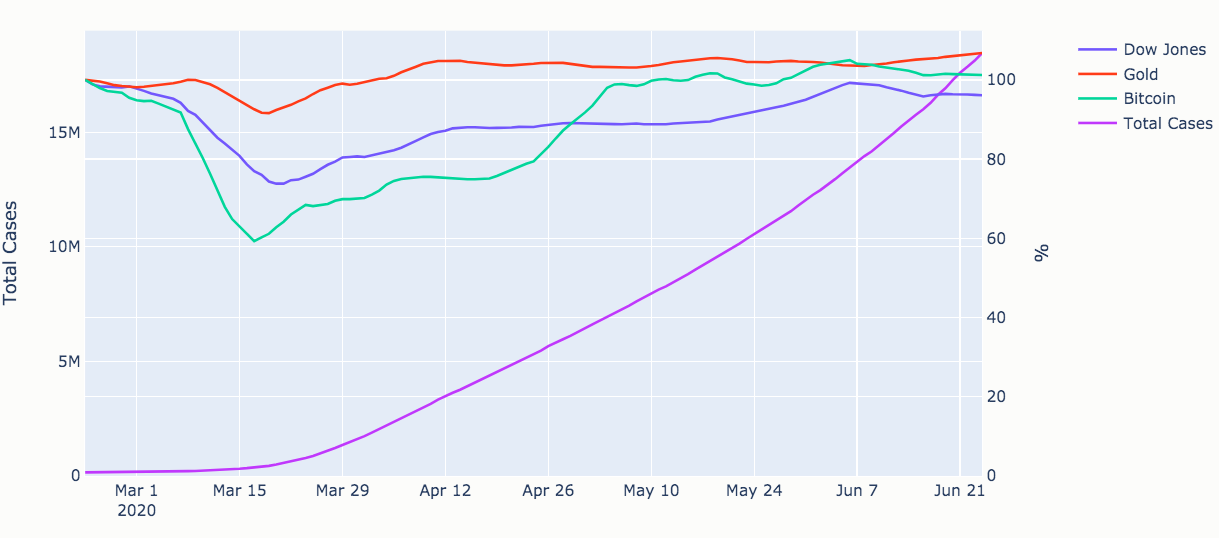
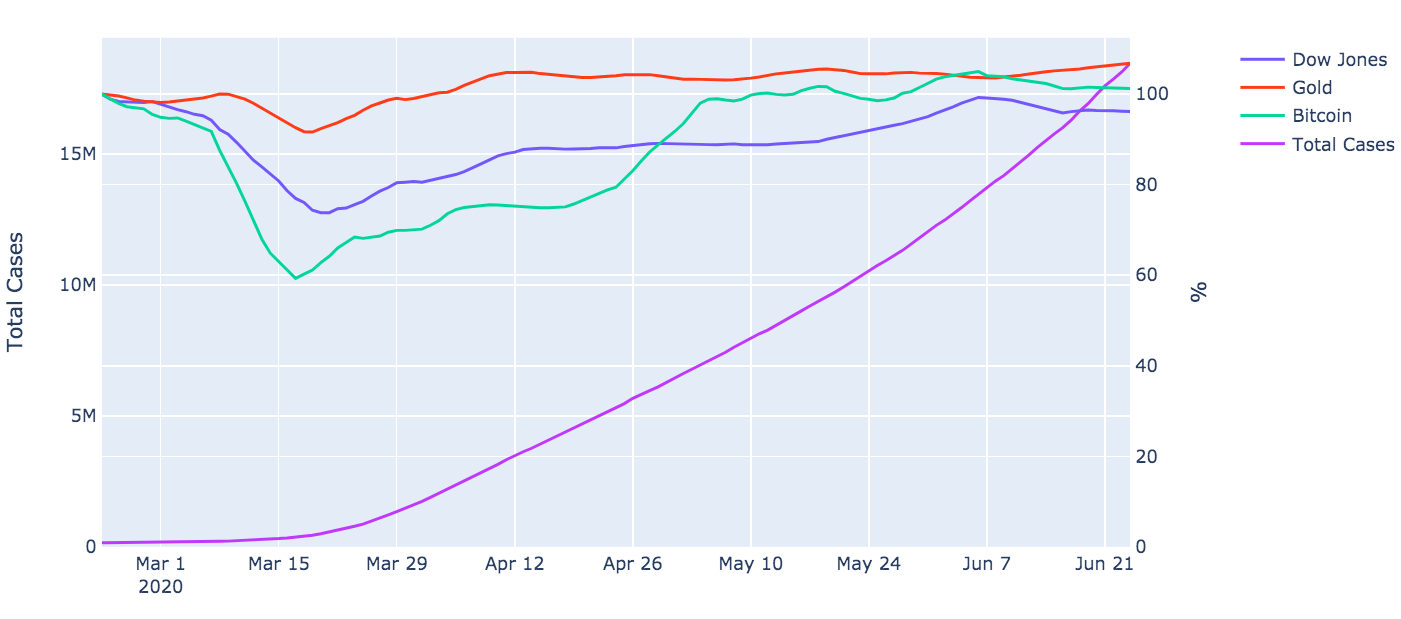
Updated covid images

diff --git a/web/covid_deaths.js b/web/covid_deaths.js
@@ -5,7 +5,7 @@ if (document.getElementById("2a950764-39fc-416d-97fe-0a6226a3095f")) {
     Plotly.newPlot(
         '2a950764-39fc-416d-97fe-0a6226a3095f',
         [{"hoverlabel": {"namelength": 0}, "hovertemplate": "Continent=Africa<br>Date=%{x}<br>Total Deaths per Million=%{y}", "legendgroup": "Africa", "line": {"color": "#636efa", "dash": "solid"}, "mode": "lines", "name": "Africa", "showlegend": true, "type": "scatter", "x": ["2020-03-15", "2020-03-16", "2020-03-17", "2020-03-18", "2020-03-19", "2020-03-20", "2020-03-21", "2020-03-22", "2020-03-23", "2020-03-24", "2020-03-25", "2020-03-26", "2020-03-27", "2020-03-28", "2020-03-29", "2020-03-30", "2020-03-31", "2020-04-01", "2020-04-02", "2020-04-03", "2020-04-04", "2020-04-05", "2020-04-06", "2020-04-07", "2020-04-08", "2020-04-09", "2020-04-10", "2020-04-11", "2020-04-12", "2020-04-13", "2020-04-14", "2020-04-15", "2020-04-16", "2020-04-17", "2020-04-18", "2020-04-19", "2020-04-20", "2020-04-21", "2020-04-22", "2020-04-23", "2020-04-24", "2020-04-25", "2020-04-26", "2020-04-27", "2020-04-28", "2020-04-29", "2020-04-30", "2020-05-01", "2020-05-02", "2020-05-03", "2020-05-04", "2020-05-05", "2020-05-06", "2020-05-07", "2020-05-08", "2020-05-09", "2020-05-10", "2020-05-11", "2020-05-12", "2020-05-13", "2020-05-14", "2020-05-15", "2020-05-16", "2020-05-17", "2020-05-18", "2020-05-19", "2020-05-20", "2020-05-21", "2020-05-22", "2020-05-23", "2020-05-24", "2020-05-25", "2020-05-26", "2020-05-27", "2020-05-28", "2020-05-29", "2020-05-30", "2020-05-31", "2020-06-01", "2020-06-02", "2020-06-03", "2020-06-04", "2020-06-05", "2020-06-06", "2020-06-07", "2020-06-08", "2020-06-09", "2020-06-10", "2020-06-11", "2020-06-12", "2020-06-13", "2020-06-14", "2020-06-15", "2020-06-16", "2020-06-17", "2020-06-18", "2020-06-19", "2020-06-20", "2020-06-21", "2020-06-22", "2020-06-23", "2020-06-24"], "xaxis": "x", "y": [0.006447492899800529, 0.00862246114353093, 0.0077388116925601385, 0.011581143564676278, 0.015158131575467804, 0.015839935565229266, 0.02104241937903226, 0.028625010993435472, 0.035088771709563614, 0.041468548384029726, 0.05076006551715866, 0.05620238121527205, 0.06546887167613875, 0.08027730693621776, 0.09664452485525246, 0.11145296011533146, 0.12937896069332183, 0.14479741741532734, 0.1716117539737213, 0.19329480642663008, 0.23029264046922726, 0.286166920451925, 0.3249486637453188, 0.3571440382638642, 0.39083687206234197, 0.4289516960145186, 0.4716222835761723, 0.517287298335135, 0.5562148519001524, 0.5906507646692063, 0.6250866774382601, 0.6557795562106776, 0.6819807941871316, 0.7224055613508036, 0.7605845081164937, 0.7912773868889112, 0.8384396152465285, 0.8646408532229826, 0.8900934844001093, 0.9222835767711813, 0.9627083439348533, 0.9986414703025617, 1.0311190887968587, 1.0588051601215929, 1.0999601310097114, 1.140366829699864, 1.1905010669635718, 1.2234250436740666, 1.263757695313178, 1.3161026886101734, 1.3452663277327852, 1.3796644661850965, 1.4312616738635635, 1.503796878860829, 1.5538985153022389, 1.611478007928934, 1.6623274299888724, 1.7124290664302824, 1.7550528466864075, 1.7969288413240039, 1.861986190135984, 1.913509203334588, 1.9665170665561078, 2.015045392040598, 2.0598407694108967, 2.1135952222552548, 2.1673496750996133, 2.2337961515322227, 2.3144278307987602, 2.37639476949434, 2.4316424015843747, 2.492862750657116, 2.5966387082316413, 2.680256745989532, 2.755662297896201, 2.828828080934356, 2.928871090394689, 3.039366354574759, 3.1521013876233437, 3.2431853216096176, 3.355920354658202, 3.4216202414679735, 3.5410745811221034, 3.661275510399071, 3.757585571745213, 3.8606149396969, 3.991268123693604, 4.118934949198955, 4.233909751116054, 4.363069755867082, 4.55419669931369, 4.701274855012836, 4.870004109774294, 5.046945850386974, 5.224634180622492, 5.3732055155673155, 5.525509798626331, 5.739781020380925, 5.912989812879413, 6.055588430841531, 6.218344968620282, 6.430376421506362], "yaxis": "y"}, {"hoverlabel": {"namelength": 0}, "hovertemplate": "Continent=Asia<br>Date=%{x}<br>Total Deaths per Million=%{y}", "legendgroup": "Asia", "line": {"color": "#EF553B", "dash": "solid"}, "mode": "lines", "name": "Asia", "showlegend": true, "type": "scatter", "x": ["2020-03-15", "2020-03-16", "2020-03-17", "2020-03-18", "2020-03-19", "2020-03-20", "2020-03-21", "2020-03-22", "2020-03-23", "2020-03-24", "2020-03-25", "2020-03-26", "2020-03-27", "2020-03-28", "2020-03-29", "2020-03-30", "2020-03-31", "2020-04-01", "2020-04-02", "2020-04-03", "2020-04-04", "2020-04-05", "2020-04-06", "2020-04-07", "2020-04-08", "2020-04-09", "2020-04-10", "2020-04-11", "2020-04-12", "2020-04-13", "2020-04-14", "2020-04-15", "2020-04-16", "2020-04-17", "2020-04-18", "2020-04-19", "2020-04-20", "2020-04-21", "2020-04-22", "2020-04-23", "2020-04-24", "2020-04-25", "2020-04-26", "2020-04-27", "2020-04-28", "2020-04-29", "2020-04-30", "2020-05-01", "2020-05-02", "2020-05-03", "2020-05-04", "2020-05-05", "2020-05-06", "2020-05-07", "2020-05-08", "2020-05-09", "2020-05-10", "2020-05-11", "2020-05-12", "2020-05-13", "2020-05-14", "2020-05-15", "2020-05-16", "2020-05-17", "2020-05-18", "2020-05-19", "2020-05-20", "2020-05-21", "2020-05-22", "2020-05-23", "2020-05-24", "2020-05-25", "2020-05-26", "2020-05-27", "2020-05-28", "2020-05-29", "2020-05-30", "2020-05-31", "2020-06-01", "2020-06-02", "2020-06-03", "2020-06-04", "2020-06-05", "2020-06-06", "2020-06-07", "2020-06-08", "2020-06-09", "2020-06-10", "2020-06-11", "2020-06-12", "2020-06-13", "2020-06-14", "2020-06-15", "2020-06-16", "2020-06-17", "2020-06-18", "2020-06-19", "2020-06-20", "2020-06-21", "2020-06-22", "2020-06-23", "2020-06-24"], "xaxis": "x", "y": [0.8744029276088529, 0.8820994959629324, 0.9037897016192117, 0.9488542451016679, 0.9836100878162742, 1.0240264988076262, 1.0622816043983714, 1.0995749883387307, 1.1356854627171282, 1.159133574937479, 1.191756399964802, 1.2327562190723256, 1.2843777529745442, 1.3283516522245824, 1.3765742373924985, 1.419910833754855, 1.4647384795025788, 1.5186927813455204, 1.579448989971177, 1.6433917130352422, 1.6761065946029035, 1.7740494616295162, 1.8424426482878302, 1.9021366854340174, 1.9716027001913239, 2.0338459488882377, 2.0980908405614116, 2.1713414212712228, 2.255357937474406, 2.3425409052932875, 2.4187468408444164, 2.505507615114538, 2.583191228086326, 2.9346673574287903, 3.0201615510526327, 3.0938343253112035, 3.1835504544226434, 3.2669336803026874, 3.350528002957111, 3.4529099385313424, 3.5379819386064253, 3.631075616107943, 3.7182585839268243, 3.792986842057294, 3.8799587131017956, 3.9656640035000184, 4.056981272109897, 4.15130384736908, 4.241471725911276, 4.331850277066888, 4.405375019149193, 4.5159781411927735, 4.6141515790447905, 4.71042896337606, 4.807338365547579, 4.89834893454344, 4.99230892012713, 5.078263346400999, 5.165903153582199, 5.2661833175683785, 5.369623570755804, 5.466743645540739, 5.570394571341581, 5.6675146461265165, 5.7739043159017704, 5.875448515568449, 5.980574149663205, 6.081907676716467, 6.196513578414959, 6.312804861020781, 6.425725381811942, 6.539699265670185, 6.631973870346544, 6.7533212956743585, 6.884991679059574, 7.020243496872868, 7.188781587605944, 7.327628503449679, 7.482669883321745, 7.626559278285109, 7.780771631305874, 7.952048466013363, 8.111527634369535, 8.280276397716028, 8.45766273821259, 8.612928454300437, 8.787786723436003, 8.965383736545983, 9.172264242920834, 9.38399021940426, 9.59382014236694, 9.772470518544, 9.96439326936629, 10.186020858680285, 10.759471712399577, 10.984470063528233, 11.241069306669342, 11.46375025905042, 11.669788074971605, 11.87729134840236, 12.084391778174972, 12.320555777814695], "yaxis": "y"}, {"hoverlabel": {"namelength": 0}, "hovertemplate": "Continent=Europe<br>Date=%{x}<br>Total Deaths per Million=%{y}", "legendgroup": "Europe", "line": {"color": "#00cc96", "dash": "solid"}, "mode": "lines", "name": "Europe", "showlegend": true, "type": "scatter", "x": ["2020-03-15", "2020-03-16", "2020-03-17", "2020-03-18", "2020-03-19", "2020-03-20", "2020-03-21", "2020-03-22", "2020-03-23", "2020-03-24", "2020-03-25", "2020-03-26", "2020-03-27", "2020-03-28", "2020-03-29", "2020-03-30", "2020-03-31", "2020-04-01", "2020-04-02", "2020-04-03", "2020-04-04", "2020-04-05", "2020-04-06", "2020-04-07", "2020-04-08", "2020-04-09", "2020-04-10", "2020-04-11", "2020-04-12", "2020-04-13", "2020-04-14", "2020-04-15", "2020-04-16", "2020-04-17", "2020-04-18", "2020-04-19", "2020-04-20", "2020-04-21", "2020-04-22", "2020-04-23", "2020-04-24", "2020-04-25", "2020-04-26", "2020-04-27", "2020-04-28", "2020-04-29", "2020-04-30", "2020-05-01", "2020-05-02", "2020-05-03", "2020-05-04", "2020-05-05", "2020-05-06", "2020-05-07", "2020-05-08", "2020-05-09", "2020-05-10", "2020-05-11", "2020-05-12", "2020-05-13", "2020-05-14", "2020-05-15", "2020-05-16", "2020-05-17", "2020-05-18", "2020-05-19", "2020-05-20", "2020-05-21", "2020-05-22", "2020-05-23", "2020-05-24", "2020-05-25", "2020-05-26", "2020-05-27", "2020-05-28", "2020-05-29", "2020-05-30", "2020-05-31", "2020-06-01", "2020-06-02", "2020-06-03", "2020-06-04", "2020-06-05", "2020-06-06", "2020-06-07", "2020-06-08", "2020-06-09", "2020-06-10", "2020-06-11", "2020-06-12", "2020-06-13", "2020-06-14", "2020-06-15", "2020-06-16", "2020-06-17", "2020-06-18", "2020-06-19", "2020-06-20", "2020-06-21", "2020-06-22", "2020-06-23", "2020-06-24"], "xaxis": "x", "y": [2.391769204363678, 2.708424469073644, 3.2039102248231504, 3.9009973905085853, 4.734287365640893, 5.715961952517312, 6.939470788504804, 8.584638759312426, 10.08905603416035, 11.778064385676732, 13.9158597923433, 16.34323245053351, 18.904433639308348, 22.064402133026498, 25.198989353702732, 28.132833778502018, 31.514311564222314, 35.44148672034374, 39.410194868715564, 43.636176830194046, 49.6457700699815, 54.413988319173576, 57.92583355279097, 61.931459916496486, 67.91913296592956, 72.48891580770305, 78.14778600182044, 83.3647913061627, 87.48463339855682, 91.09454264165433, 94.8890429614203, 99.95491432174026, 105.58494216012821, 110.59774358590599, 115.23097961028427, 119.61271029270175, 122.58462662706391, 125.85419607255396, 130.39629025282719, 134.41806833574117, 138.08681598452677, 141.85824241970917, 145.38277828984752, 147.24137969305306, 150.0679305545388, 153.53132063053073, 156.7939679106457, 159.38055037246247, 162.18748843205216, 164.43257740203228, 165.9266114288176, 167.771368501273, 170.34756771502714, 173.148737303471, 175.3246046197004, 177.71967383947364, 179.1664064028627, 180.3385597397074, 181.85682134530543, 184.09614184413965, 186.00319840497065, 188.01524114065683, 189.6742534422146, 191.08176040181158, 191.98510298325783, 192.97958740880915, 194.5866834700539, 195.96534807392143, 197.8850952712734, 199.0410968889096, 200.1198009931909, 198.52193448577958, 199.54872234974786, 200.5005200888196, 201.74420246787332, 202.91635580471802, 204.11273672037547, 204.98723694609228, 205.5444712587852, 206.68547485144208, 207.72956812884803, 208.79673529083755, 209.59624539165782, 210.64033866906377, 211.39139361225855, 211.85517869238805, 212.42164255891439, 213.3526738018609, 214.30331784670346, 214.9528476977306, 215.70390264092538, 216.32574383045224, 216.69607967801835, 217.12871501396003, 218.03436498386466, 218.89386718460216, 221.10665271616529, 221.76079734410914, 222.1842031262174, 222.53492617188746, 222.93064329249546, 223.81898784896242], "yaxis": "y"}, {"hoverlabel": {"namelength": 0}, "hovertemplate": "Continent=North America<br>Date=%{x}<br>Total Deaths per Million=%{y}", "legendgroup": "North America", "line": {"color": "#ab63fa", "dash": "solid"}, "mode": "lines", "name": "North America", "showlegend": true, "type": "scatter", "x": ["2020-03-15", "2020-03-16", "2020-03-17", "2020-03-18", "2020-03-19", "2020-03-20", "2020-03-21", "2020-03-22", "2020-03-23", "2020-03-24", "2020-03-25", "2020-03-26", "2020-03-27", "2020-03-28", "2020-03-29", "2020-03-30", "2020-03-31", "2020-04-01", "2020-04-02", "2020-04-03", "2020-04-04", "2020-04-05", "2020-04-06", "2020-04-07", "2020-04-08", "2020-04-09", "2020-04-10", "2020-04-11", "2020-04-12", "2020-04-13", "2020-04-14", "2020-04-15", "2020-04-16", "2020-04-17", "2020-04-18", "2020-04-19", "2020-04-20", "2020-04-21", "2020-04-22", "2020-04-23", "2020-04-24", "2020-04-25", "2020-04-26", "2020-04-27", "2020-04-28", "2020-04-29", "2020-04-30", "2020-05-01", "2020-05-02", "2020-05-03", "2020-05-04", "2020-05-05", "2020-05-06", "2020-05-07", "2020-05-08", "2020-05-09", "2020-05-10", "2020-05-11", "2020-05-12", "2020-05-13", "2020-05-14", "2020-05-15", "2020-05-16", "2020-05-17", "2020-05-18", "2020-05-19", "2020-05-20", "2020-05-21", "2020-05-22", "2020-05-23", "2020-05-24", "2020-05-25", "2020-05-26", "2020-05-27", "2020-05-28", "2020-05-29", "2020-05-30", "2020-05-31", "2020-06-01", "2020-06-02", "2020-06-03", "2020-06-04", "2020-06-05", "2020-06-06", "2020-06-07", "2020-06-08", "2020-06-09", "2020-06-10", "2020-06-11", "2020-06-12", "2020-06-13", "2020-06-14", "2020-06-15", "2020-06-16", "2020-06-17", "2020-06-18", "2020-06-19", "2020-06-20", "2020-06-21", "2020-06-22", "2020-06-23", "2020-06-24"], "xaxis": "x", "y": [0.10749601134227948, 0.1307445792838915, 0.16524662103936286, 0.20999700120723006, 0.2834666554981964, 0.2792559075816741, 0.4803212928401499, 0.6319120554740979, 0.858176866860418, 1.074712163259307, 1.4471558565549798, 1.8935589611162478, 2.3319238202231407, 3.0783998136776525, 3.939336904425963, 4.5228797262494735, 5.722767403504819, 7.307032770568729, 9.170518438041917, 10.809439936836203, 12.806928368287236, 15.230637870632139, 17.321150742159215, 19.738094830680406, 23.129258509816157, 26.56439737880604, 29.94541293720622, 33.68668678171908, 37.02541850372106, 39.79923817144307, 42.60011949445993, 47.031465548991434, 55.66920764841602, 59.98046760757663, 66.69683218106694, 70.32140263712076, 73.60601104853305, 77.02254502950771, 81.81245801669597, 85.19854763546394, 91.06585277407837, 93.4134513709065, 97.56403275175396, 100.689653938309, 103.40427623507352, 107.50580836569905, 112.45639993120048, 116.49873469086853, 120.56305704546365, 123.27937069568411, 125.86375877634217, 128.51072693486958, 132.90824592028252, 137.58314687246767, 142.15994932420898, 145.3633727697367, 148.6530552415168, 150.4205196029616, 152.8070193292761, 156.62778678621757, 160.3369249150678, 164.11540853561107, 167.59790530136695, 170.29392271011625, 172.09352278722372, 173.82716007954997, 177.19126210339087, 180.7075859382653, 183.79430599533399, 187.038321923804, 189.39945134827957, 190.9808668295723, 192.4624924569653, 194.71537526026145, 198.33148894903564, 201.32011050566052, 204.22754709640083, 206.6664787798491, 208.37136306342458, 210.15404960597274, 212.9075730322236, 216.67759988548724, 220.10766469410936, 222.98296556918703, 224.8671333190909, 226.50605481788517, 228.0502605231475, 230.93063545859297, 233.92094836867378, 236.57129923411304, 239.0288358055765, 241.21406447063555, 242.31682692390063, 243.86779804298666, 246.68390154710687, 249.42727685262219, 251.91018372592458, 254.35080676282877, 256.24512263346816, 258.55889416117776, 260.7018389898386, 263.6109669340349], "yaxis": "y"}, {"hoverlabel": {"namelength": 0}, "hovertemplate": "Continent=Oceania<br>Date=%{x}<br>Total Deaths per Million=%{y}", "legendgroup": "Oceania", "line": {"color": "#FFA15A", "dash": "solid"}, "mode": "lines", "name": "Oceania", "showlegend": true, "type": "scatter", "x": ["2020-03-15", "2020-03-16", "2020-03-17", "2020-03-18", "2020-03-19", "2020-03-20", "2020-03-21", "2020-03-22", "2020-03-23", "2020-03-24", "2020-03-25", "2020-03-26", "2020-03-27", "2020-03-28", "2020-03-29", "2020-03-30", "2020-03-31", "2020-04-01", "2020-04-02", "2020-04-03", "2020-04-04", "2020-04-05", "2020-04-06", "2020-04-07", "2020-04-08", "2020-04-09", "2020-04-10", "2020-04-11", "2020-04-12", "2020-04-13", "2020-04-14", "2020-04-15", "2020-04-16", "2020-04-17", "2020-04-18", "2020-04-19", "2020-04-20", "2020-04-21", "2020-04-22", "2020-04-23", "2020-04-24", "2020-04-25", "2020-04-26", "2020-04-27", "2020-04-28", "2020-04-29", "2020-04-30", "2020-05-01", "2020-05-02", "2020-05-03", "2020-05-04", "2020-05-05", "2020-05-06", "2020-05-07", "2020-05-08", "2020-05-09", "2020-05-10", "2020-05-11", "2020-05-12", "2020-05-13", "2020-05-14", "2020-05-15", "2020-05-16", "2020-05-17", "2020-05-18", "2020-05-19", "2020-05-20", "2020-05-21", "2020-05-22", "2020-05-23", "2020-05-24", "2020-05-25", "2020-05-26", "2020-05-27", "2020-05-28", "2020-05-29", "2020-05-30", "2020-05-31", "2020-06-01", "2020-06-02", "2020-06-03", "2020-06-04", "2020-06-05", "2020-06-06", "2020-06-07", "2020-06-08", "2020-06-09", "2020-06-10", "2020-06-11", "2020-06-12", "2020-06-13", "2020-06-14", "2020-06-15", "2020-06-16", "2020-06-17", "2020-06-18", "2020-06-19", "2020-06-20", "2020-06-21", "2020-06-22", "2020-06-23", "2020-06-24"], "xaxis": "x", "y": [0.09893769280070644, 0.16489615466784407, 0.16489615466784407, 0.16489615466784407, 0.19498371252303368, 0.18946424091388708, 0.1711459514826166, 0.19559537312299038, 0.19559537312299038, 0.19559537312299038, 0.2200447947633642, 0.2933930596844856, 0.3422919029652332, 0.3422919029652332, 0.39119074624598077, 0.4400895895267284, 0.51271634188121, 0.5859615335785257, 0.6347916613767361, 0.6836217891749466, 0.8789423003677885, 0.9766025559642094, 1.02543268376242, 1.1719230671570513, 1.2695833227534723, 1.3916586422489985, 1.4649038339463143, 1.562564089542735, 1.660224345139156, 1.7822996646346823, 1.8799599202311033, 1.8799599202311033, 1.9287900480293136, 1.9776201758275243, 2.0752804314239452, 2.148525623121261, 2.172940687020366, 2.2217708148185764, 2.3194310704149976, 2.368261198213208, 2.4170913260114184, 2.5391666455069446, 2.587996773305155, 2.661241965002471, 2.685657028901576, 2.783317284497997, 2.8321474122962074, 2.8809775400944178, 2.9298076678926286, 2.9298076678926286, 2.978637795690839, 2.978637795690839, 3.0274679234890494, 3.0518829873881548, 3.0518829873881548, 3.0518829873881548, 3.0518829873881548, 3.0518829873881548, 3.0518829873881548, 3.0518829873881548, 3.0762980512872597, 3.0762980512872597, 3.0762980512872597, 3.0762980512872597, 3.0762980512872597, 3.100713115186365, 3.100713115186365, 3.12512817908547, 3.12512817908547, 3.1495432429845756, 3.173958306883681, 3.173958306883681, 3.173958306883681, 3.173958306883681, 3.198373370782786, 3.198373370782786, 3.198373370782786, 3.198373370782786, 3.198373370782786, 3.198373370782786, 3.198373370782786, 3.198373370782786, 3.198373370782786, 3.198373370782786, 3.198373370782786, 3.198373370782786, 3.198373370782786, 3.198373370782786, 3.198373370782786, 3.198373370782786, 3.198373370782786, 3.198373370782786, 3.198373370782786, 3.198373370782786, 3.198373370782786, 3.198373370782786, 3.198373370782786, 3.198373370782786, 3.198373370782786, 3.198373370782786, 3.198373370782786, 3.198373370782786], "yaxis": "y"}, {"hoverlabel": {"namelength": 0}, "hovertemplate": "Continent=South America<br>Date=%{x}<br>Total Deaths per Million=%{y}", "legendgroup": "South America", "line": {"color": "#19d3f3", "dash": "solid"}, "mode": "lines", "name": "South America", "showlegend": true, "type": "scatter", "x": ["2020-03-15", "2020-03-16", "2020-03-17", "2020-03-18", "2020-03-19", "2020-03-20", "2020-03-21", "2020-03-22", "2020-03-23", "2020-03-24", "2020-03-25", "2020-03-26", "2020-03-27", "2020-03-28", "2020-03-29", "2020-03-30", "2020-03-31", "2020-04-01", "2020-04-02", "2020-04-03", "2020-04-04", "2020-04-05", "2020-04-06", "2020-04-07", "2020-04-08", "2020-04-09", "2020-04-10", "2020-04-11", "2020-04-12", "2020-04-13", "2020-04-14", "2020-04-15", "2020-04-16", "2020-04-17", "2020-04-18", "2020-04-19", "2020-04-20", "2020-04-21", "2020-04-22", "2020-04-23", "2020-04-24", "2020-04-25", "2020-04-26", "2020-04-27", "2020-04-28", "2020-04-29", "2020-04-30", "2020-05-01", "2020-05-02", "2020-05-03", "2020-05-04", "2020-05-05", "2020-05-06", "2020-05-07", "2020-05-08", "2020-05-09", "2020-05-10", "2020-05-11", "2020-05-12", "2020-05-13", "2020-05-14", "2020-05-15", "2020-05-16", "2020-05-17", "2020-05-18", "2020-05-19", "2020-05-20", "2020-05-21", "2020-05-22", "2020-05-23", "2020-05-24", "2020-05-25", "2020-05-26", "2020-05-27", "2020-05-28", "2020-05-29", "2020-05-30", "2020-05-31", "2020-06-01", "2020-06-02", "2020-06-03", "2020-06-04", "2020-06-05", "2020-06-06", "2020-06-07", "2020-06-08", "2020-06-09", "2020-06-10", "2020-06-11", "2020-06-12", "2020-06-13", "2020-06-14", "2020-06-15", "2020-06-16", "2020-06-17", "2020-06-18", "2020-06-19", "2020-06-20", "2020-06-21", "2020-06-22", "2020-06-23", "2020-06-24"], "xaxis": "x", "y": [0.009309447351919322, 0.011631397126225594, 0.011631397126225594, 0.013957676551470713, 0.023262794252451188, 0.03489419137867678, 0.060400837567263624, 0.08595503807649053, 0.1231247842717297, 0.15797142132976638, 0.22069536803423245, 0.2625113325038765, 0.34149704316875973, 0.41119031728483313, 0.49714535536132365, 0.5993621573982313, 0.7085482868467463, 0.878135253862525, 1.142969695503604, 1.31952598993099, 1.5657628892776347, 1.8747339045208475, 2.081488944796381, 2.341675062895929, 2.75750823378717, 3.1965723080801567, 3.72623690563995, 4.176916431633809, 4.495179808237721, 4.855258810964773, 5.173522187568683, 5.810048940776506, 6.444252603644153, 7.036640640388659, 7.7056906583589235, 8.458371928575472, 8.943897809671949, 9.445685323149648, 10.024134817853108, 10.632784486978835, 11.789683476385752, 12.846689581165164, 13.889757143903529, 14.449621915885592, 15.639044170054952, 17.476608629133008, 18.821677936094062, 20.20856286917826, 21.841695378320953, 23.804706715768432, 25.19159164885263, 26.137089417303663, 27.84223772699177, 29.68212527641, 31.48019719970509, 33.6499635774281, 35.705898528482564, 38.05686595273919, 39.2695191103103, 42.06884297022061, 44.20608608318118, 46.54776114607711, 49.516670600820156, 52.05116216195057, 53.69358703245397, 55.8889074039189, 59.19234186764709, 61.79187995830239, 65.18126876461703, 68.24077874262689, 71.08424131900051, 73.01705248202573, 75.73042199934959, 78.75043944157648, 82.08872026040727, 85.33872364631145, 88.55155758677283, 91.35320453702332, 93.11643010521578, 95.26993485055758, 98.68023146993379, 102.90825588905143, 106.98063325537738, 110.20972882822, 113.2645926255495, 116.59125799267943, 118.84233253230855, 122.57553870896902, 126.67579315937708, 130.55303093712837, 134.2630062103871, 137.66168737806245, 140.37041071470594, 142.6377468867163, 146.51730775480775, 150.4326876920463, 155.17546545263824, 159.57075237624846, 163.26678910746614, 166.04520515431489, 167.9756932269999, 172.42208813809395], "yaxis": "y"}],
-        {"legend": {"title": {"text": "Continent"}, "tracegroupgap": 0}, "margin": {"t": 24}, "template": {"data": {"bar": [{"error_x": {"color": "#2a3f5f"}, "error_y": {"color": "#2a3f5f"}, "marker": {"line": {"color": "#E5ECF6", "width": 0.5}}, "type": "bar"}], "barpolar": [{"marker": {"line": {"color": "#E5ECF6", "width": 0.5}}, "type": "barpolar"}], "carpet": [{"aaxis": {"endlinecolor": "#2a3f5f", "gridcolor": "white", "linecolor": "white", "minorgridcolor": "white", "startlinecolor": "#2a3f5f"}, "baxis": {"endlinecolor": "#2a3f5f", "gridcolor": "white", "linecolor": "white", "minorgridcolor": "white", "startlinecolor": "#2a3f5f"}, "type": "carpet"}], "choropleth": [{"colorbar": {"outlinewidth": 0, "ticks": ""}, "type": "choropleth"}], "contour": [{"colorbar": {"outlinewidth": 0, "ticks": ""}, "colorscale": [[0.0, "#0d0887"], [0.1111111111111111, "#46039f"], [0.2222222222222222, "#7201a8"], [0.3333333333333333, "#9c179e"], [0.4444444444444444, "#bd3786"], [0.5555555555555556, "#d8576b"], [0.6666666666666666, "#ed7953"], [0.7777777777777778, "#fb9f3a"], [0.8888888888888888, "#fdca26"], [1.0, "#f0f921"]], "type": "contour"}], "contourcarpet": [{"colorbar": {"outlinewidth": 0, "ticks": ""}, "type": "contourcarpet"}], "heatmap": [{"colorbar": {"outlinewidth": 0, "ticks": ""}, "colorscale": [[0.0, "#0d0887"], [0.1111111111111111, "#46039f"], [0.2222222222222222, "#7201a8"], [0.3333333333333333, "#9c179e"], [0.4444444444444444, "#bd3786"], [0.5555555555555556, "#d8576b"], [0.6666666666666666, "#ed7953"], [0.7777777777777778, "#fb9f3a"], [0.8888888888888888, "#fdca26"], [1.0, "#f0f921"]], "type": "heatmap"}], "heatmapgl": [{"colorbar": {"outlinewidth": 0, "ticks": ""}, "colorscale": [[0.0, "#0d0887"], [0.1111111111111111, "#46039f"], [0.2222222222222222, "#7201a8"], [0.3333333333333333, "#9c179e"], [0.4444444444444444, "#bd3786"], [0.5555555555555556, "#d8576b"], [0.6666666666666666, "#ed7953"], [0.7777777777777778, "#fb9f3a"], [0.8888888888888888, "#fdca26"], [1.0, "#f0f921"]], "type": "heatmapgl"}], "histogram": [{"marker": {"colorbar": {"outlinewidth": 0, "ticks": ""}}, "type": "histogram"}], "histogram2d": [{"colorbar": {"outlinewidth": 0, "ticks": ""}, "colorscale": [[0.0, "#0d0887"], [0.1111111111111111, "#46039f"], [0.2222222222222222, "#7201a8"], [0.3333333333333333, "#9c179e"], [0.4444444444444444, "#bd3786"], [0.5555555555555556, "#d8576b"], [0.6666666666666666, "#ed7953"], [0.7777777777777778, "#fb9f3a"], [0.8888888888888888, "#fdca26"], [1.0, "#f0f921"]], "type": "histogram2d"}], "histogram2dcontour": [{"colorbar": {"outlinewidth": 0, "ticks": ""}, "colorscale": [[0.0, "#0d0887"], [0.1111111111111111, "#46039f"], [0.2222222222222222, "#7201a8"], [0.3333333333333333, "#9c179e"], [0.4444444444444444, "#bd3786"], [0.5555555555555556, "#d8576b"], [0.6666666666666666, "#ed7953"], [0.7777777777777778, "#fb9f3a"], [0.8888888888888888, "#fdca26"], [1.0, "#f0f921"]], "type": "histogram2dcontour"}], "mesh3d": [{"colorbar": {"outlinewidth": 0, "ticks": ""}, "type": "mesh3d"}], "parcoords": [{"line": {"colorbar": {"outlinewidth": 0, "ticks": ""}}, "type": "parcoords"}], "pie": [{"automargin": true, "type": "pie"}], "scatter": [{"marker": {"colorbar": {"outlinewidth": 0, "ticks": ""}}, "type": "scatter"}], "scatter3d": [{"line": {"colorbar": {"outlinewidth": 0, "ticks": ""}}, "marker": {"colorbar": {"outlinewidth": 0, "ticks": ""}}, "type": "scatter3d"}], "scattercarpet": [{"marker": {"colorbar": {"outlinewidth": 0, "ticks": ""}}, "type": "scattercarpet"}], "scattergeo": [{"marker": {"colorbar": {"outlinewidth": 0, "ticks": ""}}, "type": "scattergeo"}], "scattergl": [{"marker": {"colorbar": {"outlinewidth": 0, "ticks": ""}}, "type": "scattergl"}], "scattermapbox": [{"marker": {"colorbar": {"outlinewidth": 0, "ticks": ""}}, "type": "scattermapbox"}], "scatterpolar": [{"marker": {"colorbar": {"outlinewidth": 0, "ticks": ""}}, "type": "scatterpolar"}], "scatterpolargl": [{"marker": {"colorbar": {"outlinewidth": 0, "ticks": ""}}, "type": "scatterpolargl"}], "scatterternary": [{"marker": {"colorbar": {"outlinewidth": 0, "ticks": ""}}, "type": "scatterternary"}], "surface": [{"colorbar": {"outlinewidth": 0, "ticks": ""}, "colorscale": [[0.0, "#0d0887"], [0.1111111111111111, "#46039f"], [0.2222222222222222, "#7201a8"], [0.3333333333333333, "#9c179e"], [0.4444444444444444, "#bd3786"], [0.5555555555555556, "#d8576b"], [0.6666666666666666, "#ed7953"], [0.7777777777777778, "#fb9f3a"], [0.8888888888888888, "#fdca26"], [1.0, "#f0f921"]], "type": "surface"}], "table": [{"cells": {"fill": {"color": "#EBF0F8"}, "line": {"color": "white"}}, "header": {"fill": {"color": "#C8D4E3"}, "line": {"color": "white"}}, "type": "table"}]}, "layout": {"margin": {"b": 0}, "annotationdefaults": {"arrowcolor": "#2a3f5f", "arrowhead": 0, "arrowwidth": 1}, "coloraxis": {"colorbar": {"outlinewidth": 0, "ticks": ""}}, "colorscale": {"diverging": [[0, "#8e0152"], [0.1, "#c51b7d"], [0.2, "#de77ae"], [0.3, "#f1b6da"], [0.4, "#fde0ef"], [0.5, "#f7f7f7"], [0.6, "#e6f5d0"], [0.7, "#b8e186"], [0.8, "#7fbc41"], [0.9, "#4d9221"], [1, "#276419"]], "sequential": [[0.0, "#0d0887"], [0.1111111111111111, "#46039f"], [0.2222222222222222, "#7201a8"], [0.3333333333333333, "#9c179e"], [0.4444444444444444, "#bd3786"], [0.5555555555555556, "#d8576b"], [0.6666666666666666, "#ed7953"], [0.7777777777777778, "#fb9f3a"], [0.8888888888888888, "#fdca26"], [1.0, "#f0f921"]], "sequentialminus": [[0.0, "#0d0887"], [0.1111111111111111, "#46039f"], [0.2222222222222222, "#7201a8"], [0.3333333333333333, "#9c179e"], [0.4444444444444444, "#bd3786"], [0.5555555555555556, "#d8576b"], [0.6666666666666666, "#ed7953"], [0.7777777777777778, "#fb9f3a"], [0.8888888888888888, "#fdca26"], [1.0, "#f0f921"]]}, "colorway": ["#636efa", "#EF553B", "#00cc96", "#ab63fa", "#FFA15A", "#19d3f3", "#FF6692", "#B6E880", "#FF97FF", "#FECB52"], "font": {"color": "#2a3f5f"}, "geo": {"bgcolor": "white", "lakecolor": "white", "landcolor": "#E5ECF6", "showlakes": true, "showland": true, "subunitcolor": "white"}, "hoverlabel": {"align": "left"}, "hovermode": "closest", "mapbox": {"style": "light"}, "paper_bgcolor": "rgba(0, 0, 0, 0)", "plot_bgcolor": "#E5ECF6", "polar": {"angularaxis": {"gridcolor": "white", "linecolor": "white", "ticks": ""}, "bgcolor": "#E5ECF6", "radialaxis": {"gridcolor": "white", "linecolor": "white", "ticks": ""}}, "scene": {"xaxis": {"backgroundcolor": "#E5ECF6", "gridcolor": "white", "gridwidth": 2, "linecolor": "white", "showbackground": true, "ticks": "", "zerolinecolor": "white"}, "yaxis": {"backgroundcolor": "#E5ECF6", "gridcolor": "white", "gridwidth": 2, "linecolor": "white", "showbackground": true, "ticks": "", "zerolinecolor": "white"}, "zaxis": {"backgroundcolor": "#E5ECF6", "gridcolor": "white", "gridwidth": 2, "linecolor": "white", "showbackground": true, "ticks": "", "zerolinecolor": "white"}}, "shapedefaults": {"line": {"color": "#2a3f5f"}}, "ternary": {"aaxis": {"gridcolor": "white", "linecolor": "white", "ticks": ""}, "baxis": {"gridcolor": "white", "linecolor": "white", "ticks": ""}, "bgcolor": "#E5ECF6", "caxis": {"gridcolor": "white", "linecolor": "white", "ticks": ""}}, "title": {"x": 0.05}, "xaxis": {"automargin": true, "gridcolor": "white", "linecolor": "white", "ticks": "", "title": {"standoff": 15}, "zerolinecolor": "white", "zerolinewidth": 2}, "yaxis": {"automargin": true, "gridcolor": "white", "linecolor": "white", "ticks": "", "title": {"standoff": 15}, "zerolinecolor": "white", "zerolinewidth": 2}}}, "xaxis": {"anchor": "y", "domain": [0.0, 1.0], "title": {"text": "Date"}}, "yaxis": {"anchor": "x", "domain": [0.0, 1.0], "title": {"text": "Total Deaths per Million"}}},
+        {"legend": {"title": {"text": "Continent"}, "tracegroupgap": 0}, "margin": {"t": 24}, "template": {"data": {"bar": [{"error_x": {"color": "#2a3f5f"}, "error_y": {"color": "#2a3f5f"}, "marker": {"line": {"color": "#E5ECF6", "width": 0.5}}, "type": "bar"}], "barpolar": [{"marker": {"line": {"color": "#E5ECF6", "width": 0.5}}, "type": "barpolar"}], "carpet": [{"aaxis": {"endlinecolor": "#2a3f5f", "gridcolor": "white", "linecolor": "white", "minorgridcolor": "white", "startlinecolor": "#2a3f5f"}, "baxis": {"endlinecolor": "#2a3f5f", "gridcolor": "white", "linecolor": "white", "minorgridcolor": "white", "startlinecolor": "#2a3f5f"}, "type": "carpet"}], "choropleth": [{"colorbar": {"outlinewidth": 0, "ticks": ""}, "type": "choropleth"}], "contour": [{"colorbar": {"outlinewidth": 0, "ticks": ""}, "colorscale": [[0.0, "#0d0887"], [0.1111111111111111, "#46039f"], [0.2222222222222222, "#7201a8"], [0.3333333333333333, "#9c179e"], [0.4444444444444444, "#bd3786"], [0.5555555555555556, "#d8576b"], [0.6666666666666666, "#ed7953"], [0.7777777777777778, "#fb9f3a"], [0.8888888888888888, "#fdca26"], [1.0, "#f0f921"]], "type": "contour"}], "contourcarpet": [{"colorbar": {"outlinewidth": 0, "ticks": ""}, "type": "contourcarpet"}], "heatmap": [{"colorbar": {"outlinewidth": 0, "ticks": ""}, "colorscale": [[0.0, "#0d0887"], [0.1111111111111111, "#46039f"], [0.2222222222222222, "#7201a8"], [0.3333333333333333, "#9c179e"], [0.4444444444444444, "#bd3786"], [0.5555555555555556, "#d8576b"], [0.6666666666666666, "#ed7953"], [0.7777777777777778, "#fb9f3a"], [0.8888888888888888, "#fdca26"], [1.0, "#f0f921"]], "type": "heatmap"}], "heatmapgl": [{"colorbar": {"outlinewidth": 0, "ticks": ""}, "colorscale": [[0.0, "#0d0887"], [0.1111111111111111, "#46039f"], [0.2222222222222222, "#7201a8"], [0.3333333333333333, "#9c179e"], [0.4444444444444444, "#bd3786"], [0.5555555555555556, "#d8576b"], [0.6666666666666666, "#ed7953"], [0.7777777777777778, "#fb9f3a"], [0.8888888888888888, "#fdca26"], [1.0, "#f0f921"]], "type": "heatmapgl"}], "histogram": [{"marker": {"colorbar": {"outlinewidth": 0, "ticks": ""}}, "type": "histogram"}], "histogram2d": [{"colorbar": {"outlinewidth": 0, "ticks": ""}, "colorscale": [[0.0, "#0d0887"], [0.1111111111111111, "#46039f"], [0.2222222222222222, "#7201a8"], [0.3333333333333333, "#9c179e"], [0.4444444444444444, "#bd3786"], [0.5555555555555556, "#d8576b"], [0.6666666666666666, "#ed7953"], [0.7777777777777778, "#fb9f3a"], [0.8888888888888888, "#fdca26"], [1.0, "#f0f921"]], "type": "histogram2d"}], "histogram2dcontour": [{"colorbar": {"outlinewidth": 0, "ticks": ""}, "colorscale": [[0.0, "#0d0887"], [0.1111111111111111, "#46039f"], [0.2222222222222222, "#7201a8"], [0.3333333333333333, "#9c179e"], [0.4444444444444444, "#bd3786"], [0.5555555555555556, "#d8576b"], [0.6666666666666666, "#ed7953"], [0.7777777777777778, "#fb9f3a"], [0.8888888888888888, "#fdca26"], [1.0, "#f0f921"]], "type": "histogram2dcontour"}], "mesh3d": [{"colorbar": {"outlinewidth": 0, "ticks": ""}, "type": "mesh3d"}], "parcoords": [{"line": {"colorbar": {"outlinewidth": 0, "ticks": ""}}, "type": "parcoords"}], "pie": [{"automargin": true, "type": "pie"}], "scatter": [{"marker": {"colorbar": {"outlinewidth": 0, "ticks": ""}}, "type": "scatter"}], "scatter3d": [{"line": {"colorbar": {"outlinewidth": 0, "ticks": ""}}, "marker": {"colorbar": {"outlinewidth": 0, "ticks": ""}}, "type": "scatter3d"}], "scattercarpet": [{"marker": {"colorbar": {"outlinewidth": 0, "ticks": ""}}, "type": "scattercarpet"}], "scattergeo": [{"marker": {"colorbar": {"outlinewidth": 0, "ticks": ""}}, "type": "scattergeo"}], "scattergl": [{"marker": {"colorbar": {"outlinewidth": 0, "ticks": ""}}, "type": "scattergl"}], "scattermapbox": [{"marker": {"colorbar": {"outlinewidth": 0, "ticks": ""}}, "type": "scattermapbox"}], "scatterpolar": [{"marker": {"colorbar": {"outlinewidth": 0, "ticks": ""}}, "type": "scatterpolar"}], "scatterpolargl": [{"marker": {"colorbar": {"outlinewidth": 0, "ticks": ""}}, "type": "scatterpolargl"}], "scatterternary": [{"marker": {"colorbar": {"outlinewidth": 0, "ticks": ""}}, "type": "scatterternary"}], "surface": [{"colorbar": {"outlinewidth": 0, "ticks": ""}, "colorscale": [[0.0, "#0d0887"], [0.1111111111111111, "#46039f"], [0.2222222222222222, "#7201a8"], [0.3333333333333333, "#9c179e"], [0.4444444444444444, "#bd3786"], [0.5555555555555556, "#d8576b"], [0.6666666666666666, "#ed7953"], [0.7777777777777778, "#fb9f3a"], [0.8888888888888888, "#fdca26"], [1.0, "#f0f921"]], "type": "surface"}], "table": [{"cells": {"fill": {"color": "#EBF0F8"}, "line": {"color": "white"}}, "header": {"fill": {"color": "#C8D4E3"}, "line": {"color": "white"}}, "type": "table"}]}, "layout": {"margin": {"b": 0}, "annotationdefaults": {"arrowcolor": "#2a3f5f", "arrowhead": 0, "arrowwidth": 1}, "coloraxis": {"colorbar": {"outlinewidth": 0, "ticks": ""}}, "colorscale": {"diverging": [[0, "#8e0152"], [0.1, "#c51b7d"], [0.2, "#de77ae"], [0.3, "#f1b6da"], [0.4, "#fde0ef"], [0.5, "#f7f7f7"], [0.6, "#e6f5d0"], [0.7, "#b8e186"], [0.8, "#7fbc41"], [0.9, "#4d9221"], [1, "#276419"]], "sequential": [[0.0, "#0d0887"], [0.1111111111111111, "#46039f"], [0.2222222222222222, "#7201a8"], [0.3333333333333333, "#9c179e"], [0.4444444444444444, "#bd3786"], [0.5555555555555556, "#d8576b"], [0.6666666666666666, "#ed7953"], [0.7777777777777778, "#fb9f3a"], [0.8888888888888888, "#fdca26"], [1.0, "#f0f921"]], "sequentialminus": [[0.0, "#0d0887"], [0.1111111111111111, "#46039f"], [0.2222222222222222, "#7201a8"], [0.3333333333333333, "#9c179e"], [0.4444444444444444, "#bd3786"], [0.5555555555555556, "#d8576b"], [0.6666666666666666, "#ed7953"], [0.7777777777777778, "#fb9f3a"], [0.8888888888888888, "#fdca26"], [1.0, "#f0f921"]]}, "colorway": ["#636efa", "#EF553B", "#00cc96", "#ab63fa", "#FFA15A", "#19d3f3", "#FF6692", "#B6E880", "#FF97FF", "#FECB52"], "font": {"color": "#2a3f5f"}, "geo": {"bgcolor": "white", "lakecolor": "white", "landcolor": "#E5ECF6", "showlakes": true, "showland": true, "subunitcolor": "white"}, "hoverlabel": {"align": "left"}, "hovermode": "closest", "mapbox": {"style": "light"}, "paper_bgcolor": "white", "plot_bgcolor": "#E5ECF6", "polar": {"angularaxis": {"gridcolor": "white", "linecolor": "white", "ticks": ""}, "bgcolor": "#E5ECF6", "radialaxis": {"gridcolor": "white", "linecolor": "white", "ticks": ""}}, "scene": {"xaxis": {"backgroundcolor": "#E5ECF6", "gridcolor": "white", "gridwidth": 2, "linecolor": "white", "showbackground": true, "ticks": "", "zerolinecolor": "white"}, "yaxis": {"backgroundcolor": "#E5ECF6", "gridcolor": "white", "gridwidth": 2, "linecolor": "white", "showbackground": true, "ticks": "", "zerolinecolor": "white"}, "zaxis": {"backgroundcolor": "#E5ECF6", "gridcolor": "white", "gridwidth": 2, "linecolor": "white", "showbackground": true, "ticks": "", "zerolinecolor": "white"}}, "shapedefaults": {"line": {"color": "#2a3f5f"}}, "ternary": {"aaxis": {"gridcolor": "white", "linecolor": "white", "ticks": ""}, "baxis": {"gridcolor": "white", "linecolor": "white", "ticks": ""}, "bgcolor": "#E5ECF6", "caxis": {"gridcolor": "white", "linecolor": "white", "ticks": ""}}, "title": {"x": 0.05}, "xaxis": {"automargin": true, "gridcolor": "white", "linecolor": "white", "ticks": "", "title": {"standoff": 15}, "zerolinecolor": "white", "zerolinewidth": 2}, "yaxis": {"automargin": true, "gridcolor": "white", "linecolor": "white", "ticks": "", "title": {"standoff": 15}, "zerolinecolor": "white", "zerolinewidth": 2}}}, "xaxis": {"anchor": "y", "domain": [0.0, 1.0], "title": {"text": "Date"}}, "yaxis": {"anchor": "x", "domain": [0.0, 1.0], "title": {"text": "Total Deaths per Million"}}},
         {"responsive": true}
     )
 };
